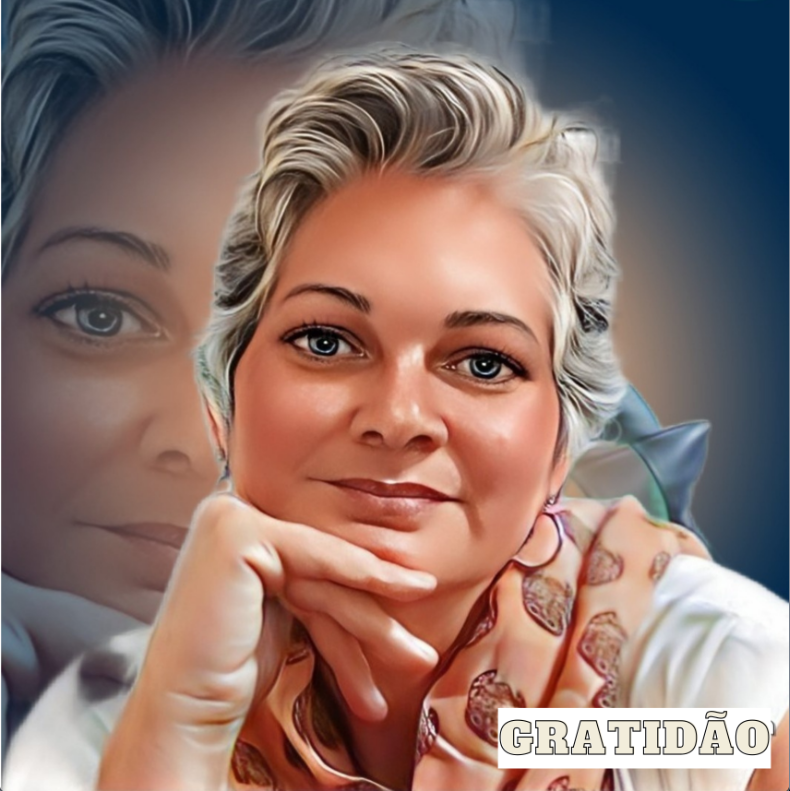
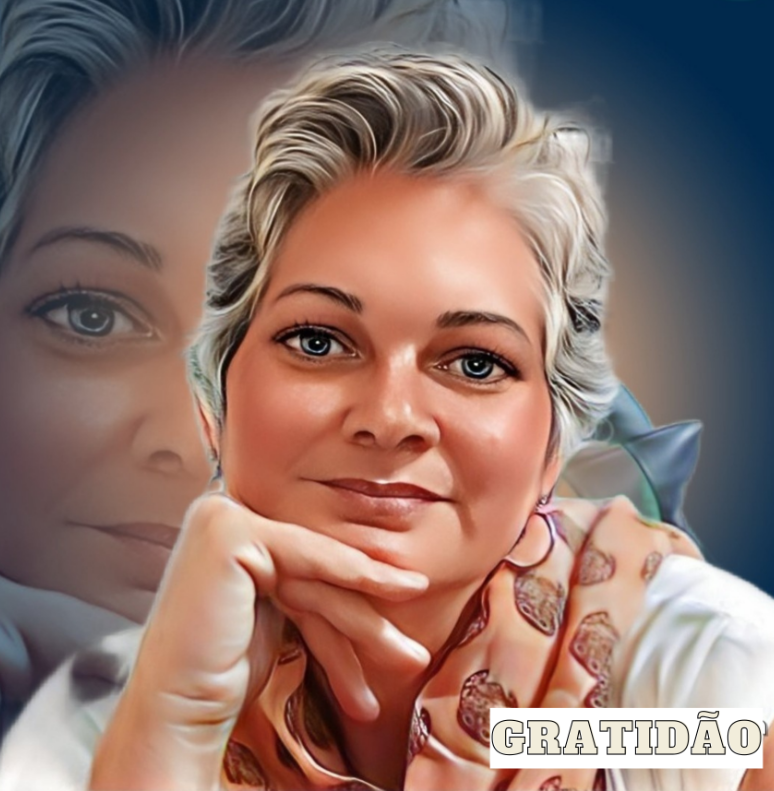
Atualizacoes no perfil

diff --git a/css/styles.css b/css/styles.css
@@ -156,8 +156,8 @@ main .sobre {
     animation: LadoSecao .5s ease-in-out forwards;
     cursor: pointer;
     grid-row: 2;
-    max-width: 100%;
-    height: 100%;
+    max-width: 105%;
+    height: 77%;
     border-radius: 4px;
     filter: blur(0);
 }
